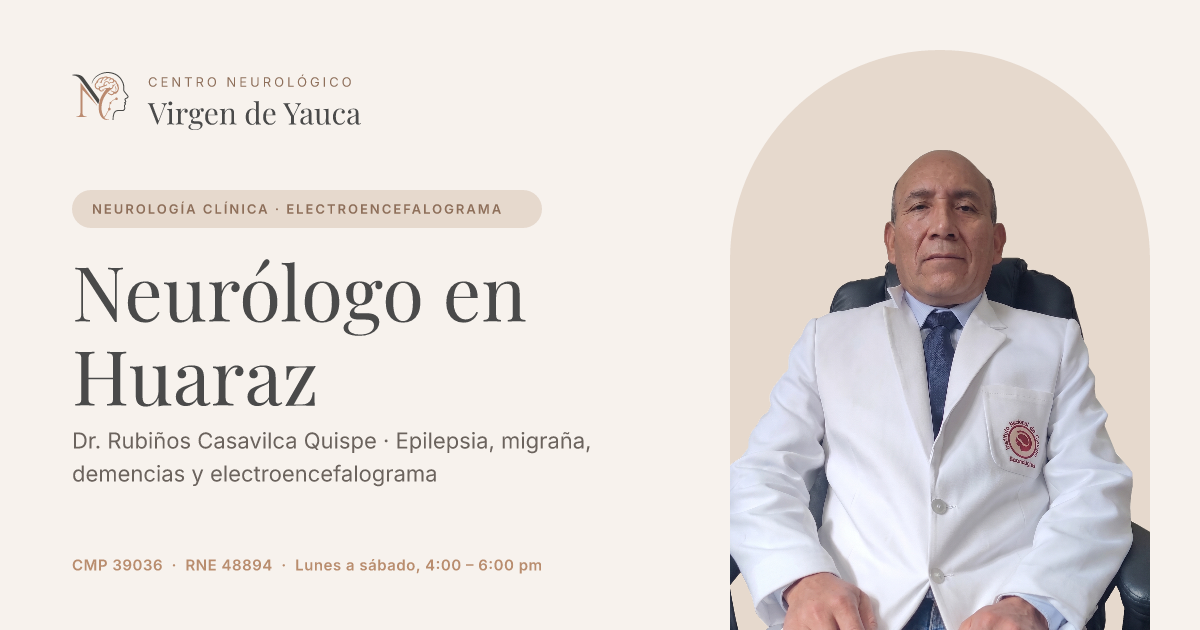
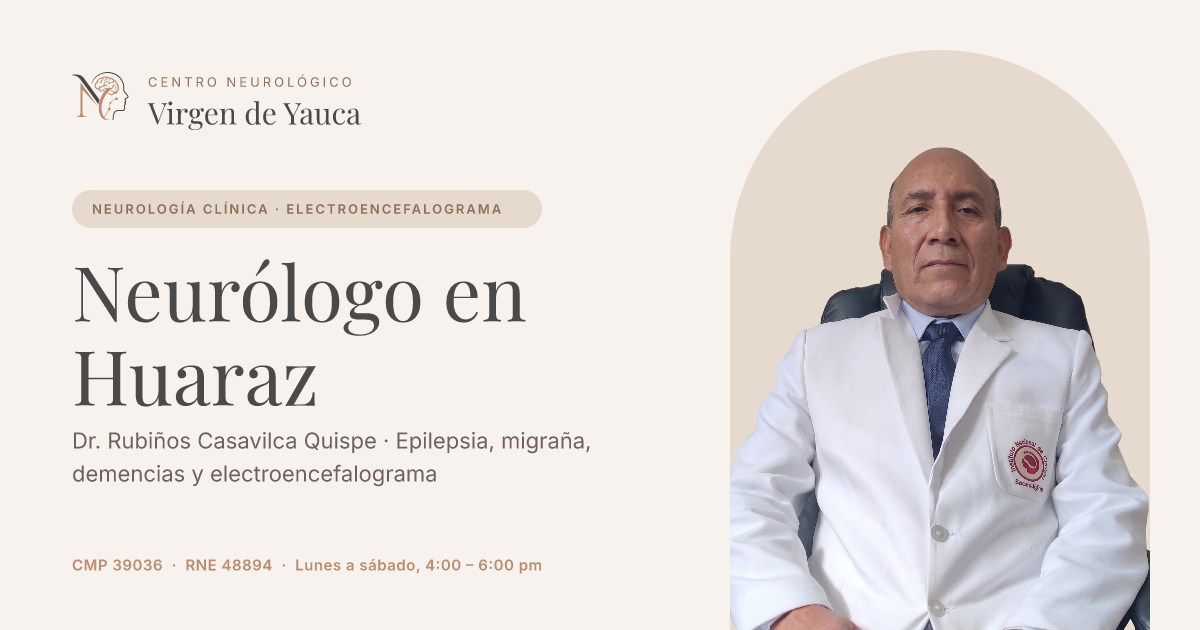
Se mejoro el layout y og:image

Changed region(s): [[0.5858, 0.2413, 0.9558, 1.0], [0.8017, 0.2413, 0.8325, 0.3619], [0.7708, 0.2111, 0.8017, 0.2413]]

diff --git a/styles.css b/styles.css
@@ -756,3 +756,35 @@ button { font: inherit; color: inherit; background: none; border: 0; padding: 0;
   .faq__item summary::after { right: 18px; }
   .faq__item p { padding: 0 18px 18px; }
 }
+
+@media (max-width: 900px) {
+  .schedule-card {
+    left: 0;
+    right: 0;
+    margin-inline: auto;
+    width: max-content;
+    max-width: calc(100% - 32px);
+    align-items: center;
+    text-align: center;
+  }
+}
+
+@media (max-width: 640px) {
+  .trust {
+    display: grid;
+    grid-template-columns: repeat(3, minmax(0, 1fr));
+    gap: 0;
+    padding-top: 24px;
+  }
+  .trust__item {
+    flex-direction: column;
+    align-items: center;
+    justify-content: flex-start;
+    gap: 6px;
+    padding: 0 8px;
+    text-align: center;
+  }
+  .trust__item + .trust__item { border-left: 1px solid var(--beige); }
+  .trust__value { font-size: 20px; line-height: 1.2; }
+  .trust__label { font-size: 12px; line-height: 1.35; text-align: center; }
+}
